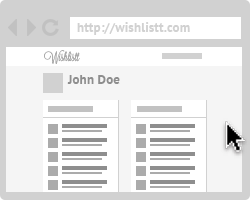
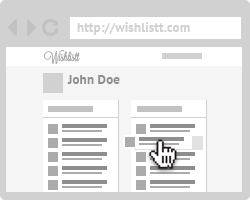
Finish about illustrations

Changed region(s): [[0.476, 0.66, 0.812, 0.87], [0.896, 0.6, 0.98, 0.78]]

diff --git a/app/assets/stylesheets/custom.css.scss b/app/assets/stylesheets/custom.css.scss
@@ -185,18 +185,18 @@ textarea {
   img {
     margin-bottom: 20px;
   }
+}
 
-  .imgs .animated {
+.about-imgs .animated {
     display: none;
-  }
+}
 
-  .imgs:hover {
-    .animated {
-      display: inline;
-    }
-    .non-animated {
-      display: none;
-    }
+.about-imgs:hover {
+  .animated {
+    display: inline;
+  }
+  .non-animated {
+    display: none;
   }
 }
 
@@ -208,11 +208,11 @@ textarea {
     display: block;
     padding: 15px 0;
 
-    img.pull-left {
+    .about-imgs.pull-left {
       margin-right: 20px;
     }
 
-    img.pull-right {
+    .about-imgs.pull-right {
       margin-left: 20px;
     }
   }
